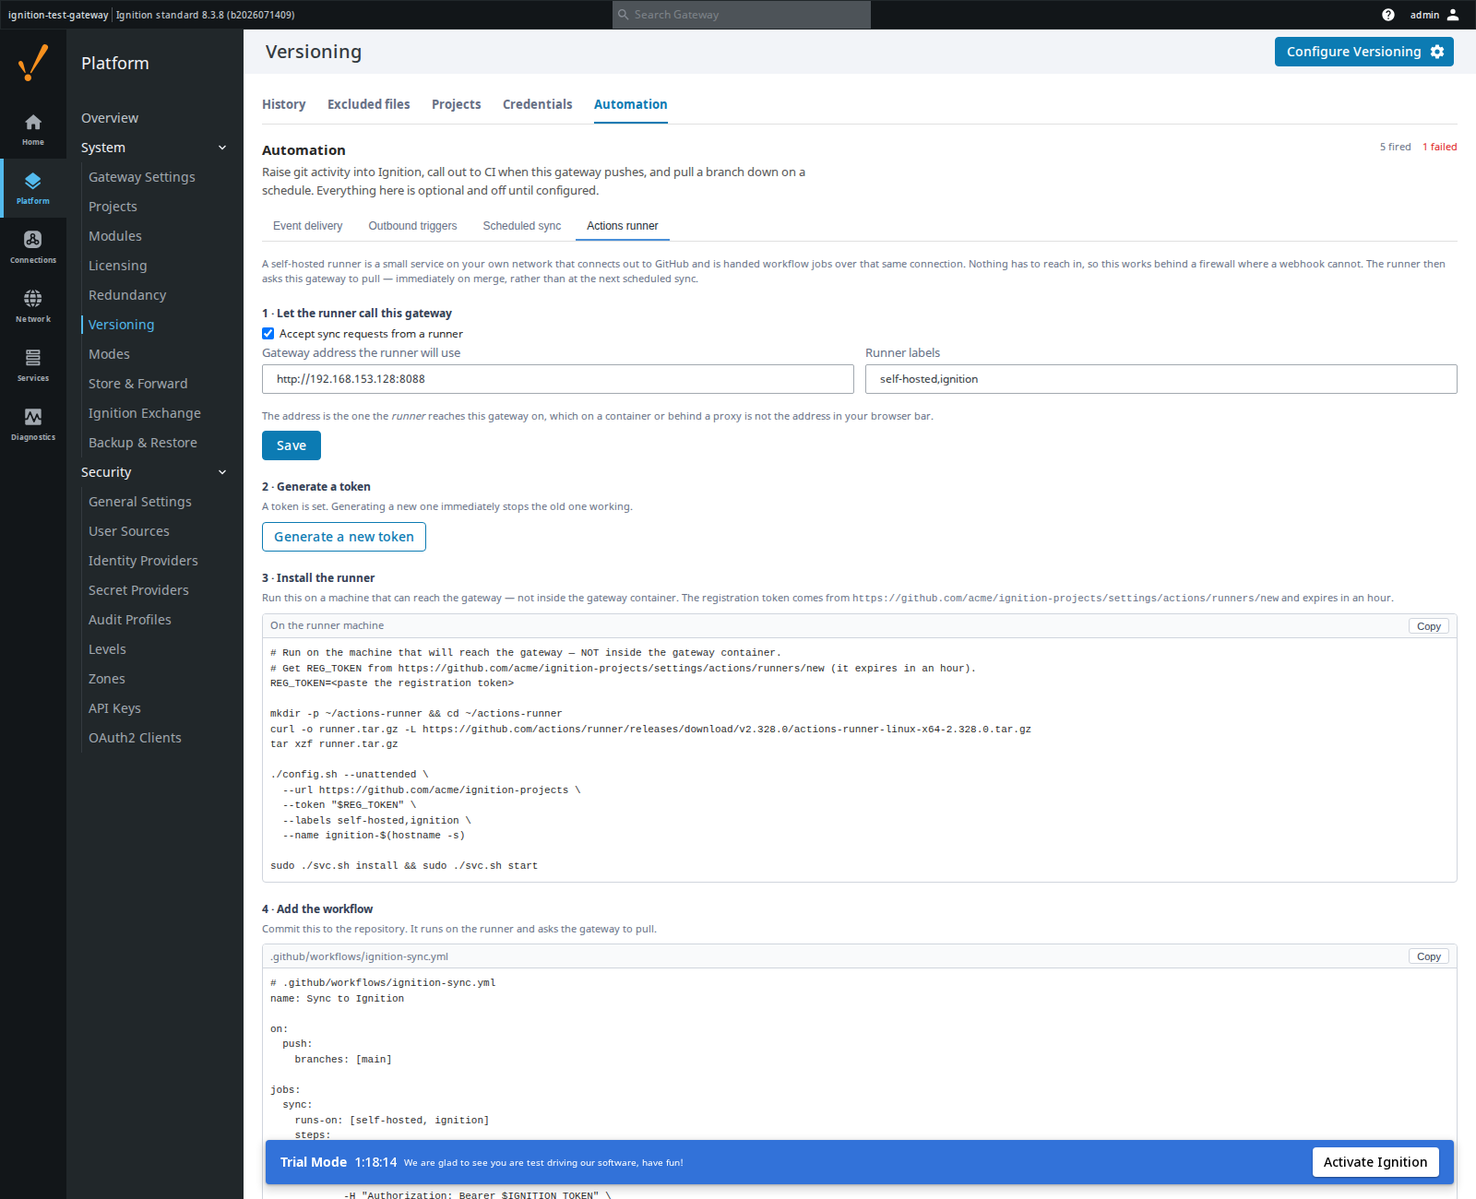
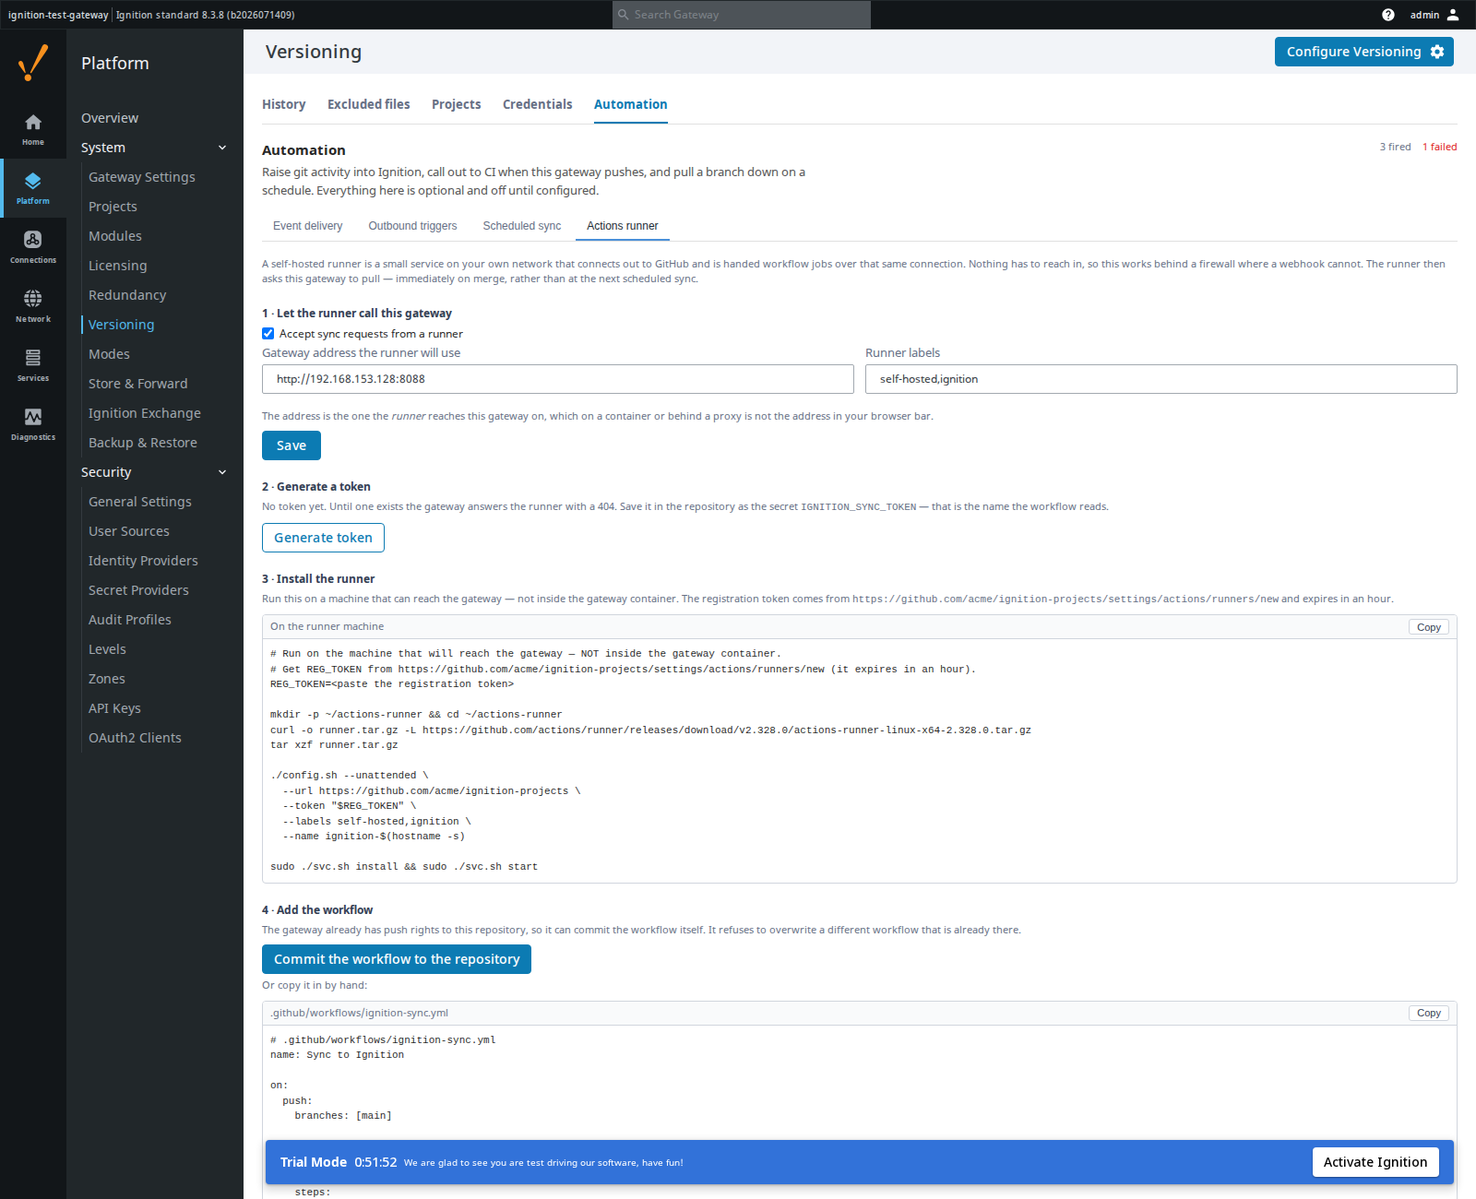
feat(runner): let the gateway commit the sync workflow itself
The gateway already holds push rights for the project repository — that is how
project versioning works at all — so generating a file for someone to copy into
that same repository by hand was a step with no purpose.

POST /runner-workflow writes .github/workflows/ignition-sync.yml into the
project folder and commits it through the ordinary project-commit path, so it
raises the same git event and lands in the same history as any other commit,
then pushes. The project folder is the repository root, which is the only place
GitHub reads workflows from, and the leading dot keeps .github out of Ignition's
resource scan.

Two refusals: it will not overwrite a workflow that is already there and differs,
since that file may have gained steps that have nothing to do with this module;
and re-running it unchanged reports so rather than making an empty commit. A
commit that cannot be pushed reports exactly that, with the reason — the commit
stands rather than the whole call failing.

Setup is now three steps: generate a token, save it in the repository as
IGNITION_SYNC_TOKEN (the tab names the secret), run the install block on the
runner machine.

Verified on the test gateway: refused before a gateway address is set; committed
the workflow with the real URL in it; reported unchanged on a second run;
reported the push failure without losing the commit; the project's working tree
came back clean and the .github directory raised no scan error.

diff --git a/web-ui/src/pages/GitConfig/Runner.tsx b/web-ui/src/pages/GitConfig/Runner.tsx
@@ -2,7 +2,11 @@ import React from "react";
 import { Button, Loading, useToastNotifications } from "../../webui";
 // Label-painting wrappers — the platform inputs render `label` into an invisible notch legend.
 import { SelectInput, TextInput } from "./fields";
-import { useGetRunnerQuery, useSaveRunnerMutation } from "./GitConfig.service";
+import {
+  useCommitRunnerWorkflowMutation,
+  useGetRunnerQuery,
+  useSaveRunnerMutation,
+} from "./GitConfig.service";
 import { errorToast } from "./errors";
 import { selectValue } from "./selectValue";
 
@@ -42,6 +46,8 @@ export default function Runner() {
   const [project, setProject] = React.useState<string | undefined>(undefined);
   const { data, isLoading, refetch } = useGetRunnerQuery(project);
   const [save, { isLoading: saving }] = useSaveRunnerMutation();
+  const [commitWorkflow, { isLoading: committing }] =
+    useCommitRunnerWorkflowMutation();
 
   const [gatewayUrl, setGatewayUrl] = React.useState("");
   const [labels, setLabels] = React.useState("");
@@ -140,7 +146,10 @@ export default function Runner() {
           <p className="gitcfg-auto-hint">
             {data.hasToken
               ? "A token is set. Generating a new one immediately stops the old one working."
-              : "No token yet. Until one exists the gateway answers the runner with a 404."}
+              : "No token yet. Until one exists the gateway answers the runner with a 404."}{" "}
+            Save it in the repository as the secret{" "}
+            <code>IGNITION_SYNC_TOKEN</code> — that is the name the workflow
+            reads.
           </p>
           <Button
             colorClass="secondary"
@@ -175,11 +184,38 @@ export default function Runner() {
 
           <h4 className="gitcfg-step">4 · Add the workflow</h4>
           <p className="gitcfg-auto-hint">
-            Commit this to the repository. It runs on the runner and asks the
-            gateway to pull.
+            The gateway already has push rights to this repository, so it can
+            commit the workflow itself. It refuses to overwrite a different
+            workflow that is already there.
           </p>
+          <Button
+            disabled={committing || !gatewayUrl}
+            onClick={async () => {
+              try {
+                const r = await commitWorkflow({
+                  project: data.project,
+                }).unwrap();
+                if (r.unchanged) toasts.notifySuccess("Already committed");
+                else if (r.pushed) toasts.notifySuccess("Committed and pushed");
+                else
+                  toasts.notify({
+                    type: "error",
+                    title: "Committed, but the push failed",
+                    message:
+                      r.pushError || "Push the project from the Designer.",
+                    autoClose: false,
+                    isDismissible: true,
+                  });
+              } catch (e) {
+                errorToast(toasts, "Could not commit the workflow")(e);
+              }
+            }}
+          >
+            Commit the workflow to the repository
+          </Button>
+          <p className="gitcfg-auto-hint">Or copy it in by hand:</p>
           <Snippet
-            label=".github/workflows/ignition-sync.yml"
+            label={".github/workflows/ignition-sync.yml"}
             text={data.workflowYaml}
           />
 

diff --git a/web-ui/src/pages/GitConfig/GitConfig.service.ts b/web-ui/src/pages/GitConfig/GitConfig.service.ts
@@ -449,6 +449,22 @@ export const gitConfigApi = baseApi.injectEndpoints({
       query: (body) => ({ url: `${BASE}/runner`, method: "POST", body }),
       invalidatesTags: ["runner"],
     }),
+    commitRunnerWorkflow: builder.mutation<
+      {
+        committed?: boolean;
+        unchanged?: boolean;
+        pushed?: boolean;
+        pushError?: string;
+      },
+      { project: string; overwrite?: boolean }
+    >({
+      query: (body) => ({
+        url: `${BASE}/runner-workflow`,
+        method: "POST",
+        body,
+      }),
+      invalidatesTags: ["runner", "history", "projects"],
+    }),
   }),
   overrideExisting: false,
 });
@@ -489,4 +505,5 @@ export const {
   useSyncNowMutation,
   useGetRunnerQuery,
   useSaveRunnerMutation,
+  useCommitRunnerWorkflowMutation,
 } = gitConfigApi;

diff --git a/gateway/src/main/java/com/operametrix/ignition/git/GatewayHook.java b/gateway/src/main/java/com/operametrix/ignition/git/GatewayHook.java
@@ -38,11 +38,15 @@ import com.inductiveautomation.ignition.gateway.model.GatewayContext;
 import com.inductiveautomation.ignition.gateway.rpc.GatewayRpcImplementation;
 import com.inductiveautomation.ignition.gateway.web.session.WebUiSession;
 import com.inductiveautomation.ignition.gateway.web.systemjs.SystemJsModule;
+import com.operametrix.ignition.git.managers.GitManager;
 import com.operametrix.ignition.git.managers.GitProjectManager;
 import jakarta.servlet.http.HttpServletResponse;
 import org.slf4j.Logger;
 import org.slf4j.LoggerFactory;
 
+import java.nio.charset.StandardCharsets;
+import java.nio.file.Files;
+import java.nio.file.Path;
 import java.util.ArrayList;
 import java.util.List;
 import java.util.Optional;
@@ -361,6 +365,10 @@ public class GatewayHook extends AbstractGatewayModuleHook {
         routes.newRoute("/runner").method(HttpMethod.POST).type(RouteGroup.TYPE_JSON)
                 .requirePermission(PermissionType.WRITE)
                 .handler(this::handleSaveRunner).mount();
+
+        routes.newRoute("/runner-workflow").method(HttpMethod.POST).type(RouteGroup.TYPE_JSON)
+                .requirePermission(PermissionType.WRITE)
+                .handler(this::handleRunnerWorkflow).mount();
 
         // OPEN_ROUTE on purpose and uniquely: a workflow step has no gateway session and no way
         // to obtain the X-CSRF-Token that requirePermission's strategy demands, so the route
@@ -1448,6 +1456,78 @@ public class GatewayHook extends AbstractGatewayModuleHook {
                 // The only time this value ever leaves the gateway. It is not recoverable
                 // afterwards — a lost token is replaced, not read back.
                 o.addProperty("token", issued);
+            }
+            return o.toString();
+        } catch (Exception e) {
+            return error(resp, e);
+        }
+    }
+
+    /**
+     * Writes the sync workflow into the project repository, commits it and pushes.
+     *
+     * <p>The module already holds push rights for this repository — that is how project
+     * versioning works at all — so asking someone to copy a generated file into it by hand was
+     * a step with no purpose. The commit is the ordinary project-commit path, so it raises the
+     * same git event and appears in the same history as any other.
+     */
+    private Object handleRunnerWorkflow(RequestContext req, HttpServletResponse resp) {
+        try {
+            JsonObject body = new Gson().fromJson(req.readBody(), JsonObject.class);
+            String project = optString(body, "project");
+            if (project == null || project.isBlank()) {
+                throw new RuntimeException("A project is required.");
+            }
+            GitRunnerRecord cfg = GitRunnerRecord.get();
+            if (cfg.getGatewayUrl().isBlank()) {
+                throw new RuntimeException(
+                        "Set the gateway address first — the workflow has to carry a real URL.");
+            }
+
+            Path root = GitManager.getProjectFolderPath(project);
+            Path target = root.resolve(RunnerSetup.WORKFLOW_PATH);
+            String yaml = RunnerSetup.workflowYaml(project, cfg);
+
+            boolean existed = Files.exists(target);
+            if (existed && !optBool(body, "overwrite")) {
+                String current = Files.readString(target, StandardCharsets.UTF_8);
+                if (current.equals(yaml)) {
+                    JsonObject o = new JsonObject();
+                    o.addProperty("ok", true);
+                    o.addProperty("unchanged", true);
+                    return o.toString();
+                }
+                // Never silently rewrite a workflow someone has edited — it may have gained
+                // steps that have nothing to do with this module.
+                throw new RuntimeException("A different " + RunnerSetup.WORKFLOW_PATH
+                        + " is already committed. Tick overwrite to replace it.");
+            }
+
+            Files.createDirectories(target.getParent());
+            Files.writeString(target, yaml, StandardCharsets.UTF_8);
+
+            String message = existed
+                    ? "Update the Ignition sync workflow"
+                    : "Add the Ignition sync workflow";
+            scriptModule.commitImpl(project, req.getActor(),
+                    List.of(RunnerSetup.WORKFLOW_PATH), message, false);
+
+            JsonObject o = new JsonObject();
+            o.addProperty("ok", true);
+            o.addProperty("committed", true);
+            // A commit that cannot be pushed is still progress, and the reason is worth saying
+            // plainly rather than failing the whole call.
+            try {
+                String remote = GitProjectManager.listProjectStatus().stream()
+                        .filter(p -> p.name().equals(project))
+                        .map(GitProjectManager.ProjectStatus::remoteName)
+                        .filter(n -> n != null && !n.isBlank())
+                        .findFirst().orElse("origin");
+                scriptModule.pushImpl(project, req.getActor(), remote, false, false, false);
+                o.addProperty("pushed", true);
+            } catch (Exception pushFailed) {
+                o.addProperty("pushed", false);
+                o.addProperty("pushError", GitEvents.reason(pushFailed));
             }
             return o.toString();
         } catch (Exception e) {

diff --git a/gateway/src/main/java/com/operametrix/ignition/git/automation/RunnerSetup.java b/gateway/src/main/java/com/operametrix/ignition/git/automation/RunnerSetup.java
@@ -25,6 +25,13 @@ public final class RunnerSetup {
      */
     private static final String RUNNER_VERSION = "2.328.0";
 
+    /**
+     * Where the workflow has to live. GitHub reads workflows only from the repository root, and
+     * for a project repository the root IS the project folder — so the file lands beside the
+     * project's own resources. The leading dot keeps it out of Ignition's resource scan.
+     */
+    public static final String WORKFLOW_PATH = ".github/workflows/ignition-sync.yml";
+
     private RunnerSetup() {
     }
 
@@ -78,7 +85,7 @@ public final class RunnerSetup {
         String labels = "[" + String.join(", ", cfg.getLabels().split("\\s*,\\s*")) + "]";
         String base = cfg.getGatewayUrl().isEmpty() ? "<gateway url>" : cfg.getGatewayUrl();
         return String.join("\n",
-                "# .github/workflows/ignition-sync.yml",
+                "# " + WORKFLOW_PATH,
                 "name: Sync to Ignition",
                 "",
                 "on:",

diff --git a/CLAUDE.md b/CLAUDE.md
@@ -77,7 +77,7 @@ Scopes: D = Designer, G = Gateway. The Vision client scope is unused — there i
   with `FileNotFoundException` — so init could **never** complete on a gateway that was actually
   running. Ignoring `valueStore.idb` alone is not enough; the sidecars are separate paths.
 
-The page is React (8.3 gateway pages are React-only via `NavigationModel`; Wicket config pages are gone, and there is **no** module-accessible API for a global banner-on-all-pages or a dynamic nav badge — verified against `gateway-api-8.3.6`). It talks to the gateway via REST routes mounted in `GatewayHook.mountRouteHandlers` (NOT the RPC interface), under `/data/git-config/…`. Config-as-code: `GET /status|/history|/commit-files|/file-diff|/remote|/secret-providers|/tree|/ignore`, `POST /restore|/init|/deinit|/remote|/remote-remove|/remote-test|/push|/ignore|/update-from-remote`. Projects and credentials: `GET /projects|/credentials`, `POST /project-init|/project-remote|/project-images|/project-snapshot-images|/credentials|/credential-remove`. Automation: `GET /automation|/runner`, `POST /automation|/automation-test|/automation-clear|/trigger|/trigger-remove|/sync|/sync-now|/runner|/runner-sync`. **`POST /runner-sync` is the one route with no permission check and no CSRF token** — a GitHub Actions workflow step has neither a gateway session nor a way to obtain one, so it authenticates itself: `AccessControlStrategy.OPEN_ROUTE`, an `Authorization: Bearer` token compared with `MessageDigest.isEqual`, a 64 KB body cap, and a 404 until a token exists. The token is generated gateway-side (`GitRunnerRecord.generateToken`), stored encrypted, and returned exactly once — nothing reads it back. Reads require `PermissionType.READ`, mutations `WRITE`; the acting author is `RequestContext.getActor()`. The frontend lives in `web-ui/` and is built from the standard `@inductiveautomation/ignition-web-ui` components (`DataGrid`, `Chip`, `Button`, `PageHeader`, `Modal`, `Loading`, `Tooltip`, and the drawer/form set `Drawer`/`DrawerTemplate`/`Card`/`Form`/`FormControlInput`/`Radio`/`SelectInput`/`TextInput`/`TextArea`/`TextAutocomplete`) — imported through `src/webui.ts`, a one-line shim that re-exports them cast to `any` (the package publishes strict internal prop types, e.g. `DataGrid` requires `paginationParams`/`setTableQueryParams` that have runtime defaults; the shim lets us pass only the props we need, mirroring the storybook examples). RTK Query targets a single `BASE` constant in `src/config.ts` (adjust if the live route prefix differs from `/data/git-config`); the base query lazily fetches `/csrf` and attaches the `X-CSRF-Token` header on mutations (the gateway's web-session access control rejects unsafe methods without it). Webpack emits a UMD bundle to `mounted/gitConfig.js`, packed into the gateway jar via `modlImplementation(project(":web-ui"))`, served at `/res/git-config/gitConfig.js`, and mounted as component `GitConfigPage`.
+The page is React (8.3 gateway pages are React-only via `NavigationModel`; Wicket config pages are gone, and there is **no** module-accessible API for a global banner-on-all-pages or a dynamic nav badge — verified against `gateway-api-8.3.6`). It talks to the gateway via REST routes mounted in `GatewayHook.mountRouteHandlers` (NOT the RPC interface), under `/data/git-config/…`. Config-as-code: `GET /status|/history|/commit-files|/file-diff|/remote|/secret-providers|/tree|/ignore`, `POST /restore|/init|/deinit|/remote|/remote-remove|/remote-test|/push|/ignore|/update-from-remote`. Projects and credentials: `GET /projects|/credentials`, `POST /project-init|/project-remote|/project-images|/project-snapshot-images|/credentials|/credential-remove`. Automation: `GET /automation|/runner`, `POST /automation|/automation-test|/automation-clear|/trigger|/trigger-remove|/sync|/sync-now|/runner|/runner-workflow|/runner-sync`. **`POST /runner-sync` is the one route with no permission check and no CSRF token** — a GitHub Actions workflow step has neither a gateway session nor a way to obtain one, so it authenticates itself: `AccessControlStrategy.OPEN_ROUTE`, an `Authorization: Bearer` token compared with `MessageDigest.isEqual`, a 64 KB body cap, and a 404 until a token exists. The token is generated gateway-side (`GitRunnerRecord.generateToken`), stored encrypted, and returned exactly once — nothing reads it back. Reads require `PermissionType.READ`, mutations `WRITE`; the acting author is `RequestContext.getActor()`. The frontend lives in `web-ui/` and is built from the standard `@inductiveautomation/ignition-web-ui` components (`DataGrid`, `Chip`, `Button`, `PageHeader`, `Modal`, `Loading`, `Tooltip`, and the drawer/form set `Drawer`/`DrawerTemplate`/`Card`/`Form`/`FormControlInput`/`Radio`/`SelectInput`/`TextInput`/`TextArea`/`TextAutocomplete`) — imported through `src/webui.ts`, a one-line shim that re-exports them cast to `any` (the package publishes strict internal prop types, e.g. `DataGrid` requires `paginationParams`/`setTableQueryParams` that have runtime defaults; the shim lets us pass only the props we need, mirroring the storybook examples). RTK Query targets a single `BASE` constant in `src/config.ts` (adjust if the live route prefix differs from `/data/git-config`); the base query lazily fetches `/csrf` and attaches the `X-CSRF-Token` header on mutations (the gateway's web-session access control rejects unsafe methods without it). Webpack emits a UMD bundle to `mounted/gitConfig.js`, packed into the gateway jar via `modlImplementation(project(":web-ui"))`, served at `/res/git-config/gitConfig.js`, and mounted as component `GitConfigPage`.
 
 **Project Browser change badges** (`GitChangeBadges`, Gaskony fork 07/09/2026) — resources that are
 changed and not yet committed carry a coloured dot in the Designer's Project Browser: green created,
@@ -157,6 +157,13 @@ timer off says "pull on demand only", not "never pull". The module deliberately 
 supervise the runner — a runner executes whatever the workflow says, so hosting one from inside the
 module would put repository-supplied shell next to the project store under the gateway's identity,
 and would need a stored GitHub admin credential for hourly registration tokens.
+
+`POST /runner-workflow` writes `.github/workflows/ignition-sync.yml` into the project folder and
+commits it through `GatewayScriptModule.commitImpl`, so it raises the same `commit` event and lands
+in the same history as any other commit. The project folder IS the repository root, which is the
+only place GitHub reads workflows from; the leading dot keeps `.github` out of Ignition's resource
+scan (verified on 8.3.8 — no scan error, project stays healthy). It refuses to overwrite a
+differing workflow and reports `unchanged` rather than making an empty commit.
 
 **Image snapshot is scoped and merges** (`GitImageManager`) — two things that were both wrong:
 - **`getImages(path)` lists ONE level of the store and returns folders as entries** with a null

diff --git a/docs/AUTOMATION.md b/docs/AUTOMATION.md
@@ -299,3 +299,23 @@ reach it. A webhook route is only useful if the internet can address it; this
 one is only ever called from inside the same network, so it can sit behind
 whatever already protects the gateway. Turning the feature off closes it
 entirely — with no token, it is a 404.
+
+
+### The workflow file is committed by the gateway (2.17.0)
+
+The module holds push rights for the project repository already. Generating a
+file for someone to copy into that same repository by hand was a step with no
+purpose, so *Commit the workflow to the repository* does it: write, commit
+through the ordinary project-commit path, push.
+
+The file goes to `.github/workflows/ignition-sync.yml` **inside the project
+folder**, because for a project repository the project folder is the repository
+root, and GitHub reads workflows only from the root. The leading dot keeps it
+out of Ignition's resource scan — verified on 8.3.8, no scan error and the
+project stays healthy.
+
+Two refusals worth keeping: it will not overwrite a workflow that is already
+there and differs (it may have gained steps that are nothing to do with this
+module), and re-running it with nothing changed reports `unchanged` rather than
+making an empty commit. A commit that cannot be pushed reports exactly that; the
+commit stands.

diff --git a/CHANGELOG.md b/CHANGELOG.md
@@ -3,6 +3,24 @@
 Gaskony builds of the OperaMetrix Git module. Versions up to 2.1.0 are
 upstream's; everything below is this fork.
 
+## [2.17.0] - 2026-09-10
+
+### Added
+- **The gateway commits the sync workflow itself.** It already holds push rights for the project
+  repository — that is how project versioning works at all — so asking someone to copy a generated
+  file into it by hand was a step with no purpose. *Commit the workflow to the repository* writes
+  `.github/workflows/ignition-sync.yml`, commits it through the ordinary project-commit path (so it
+  raises the same git event and lands in the same history as any other commit) and pushes.
+
+  It refuses to overwrite a workflow that is already there and differs, since that file may have
+  gained steps that have nothing to do with this module; re-running it when nothing has changed
+  reports `unchanged` rather than making an empty commit. A commit that cannot be pushed is
+  reported as exactly that — the commit stands and the push reason is shown — rather than failing
+  the whole operation.
+
+  Setup is now three steps: generate a token, save it in the repository as `IGNITION_SYNC_TOKEN`
+  (the tab names the secret), and run the install block on the runner machine.
+
 ## [2.16.0] - 2026-09-10
 
 ### Added

diff --git a/README.md b/README.md
@@ -132,11 +132,11 @@ says whether it arrived. Outbound triggers and scheduled sync are on the same
 tab.
 
 Push-time sync: **Automation → Actions runner**. Tick *Accept sync requests from
-a runner*, enter the address the runner will reach this gateway on, generate a
-token and save it as the repository secret the generated workflow names. The
-remaining blocks are the runner registration command and the workflow — copy
-each where it says. Run the test command from the runner machine before relying
-on it.
+a runner*, enter the address the runner will reach this gateway on, and generate
+a token — save it in the repository as the secret `IGNITION_SYNC_TOKEN`. Press
+*Commit the workflow to the repository* and the gateway commits and pushes the
+workflow itself. The one block left to copy is the runner install command; run
+it on the runner machine, then run the test command before relying on it.
 
 To build from source you need `gradle.properties` with the signing block —
 copy it from `gradle.template.properties` and fill in the keystore details:
